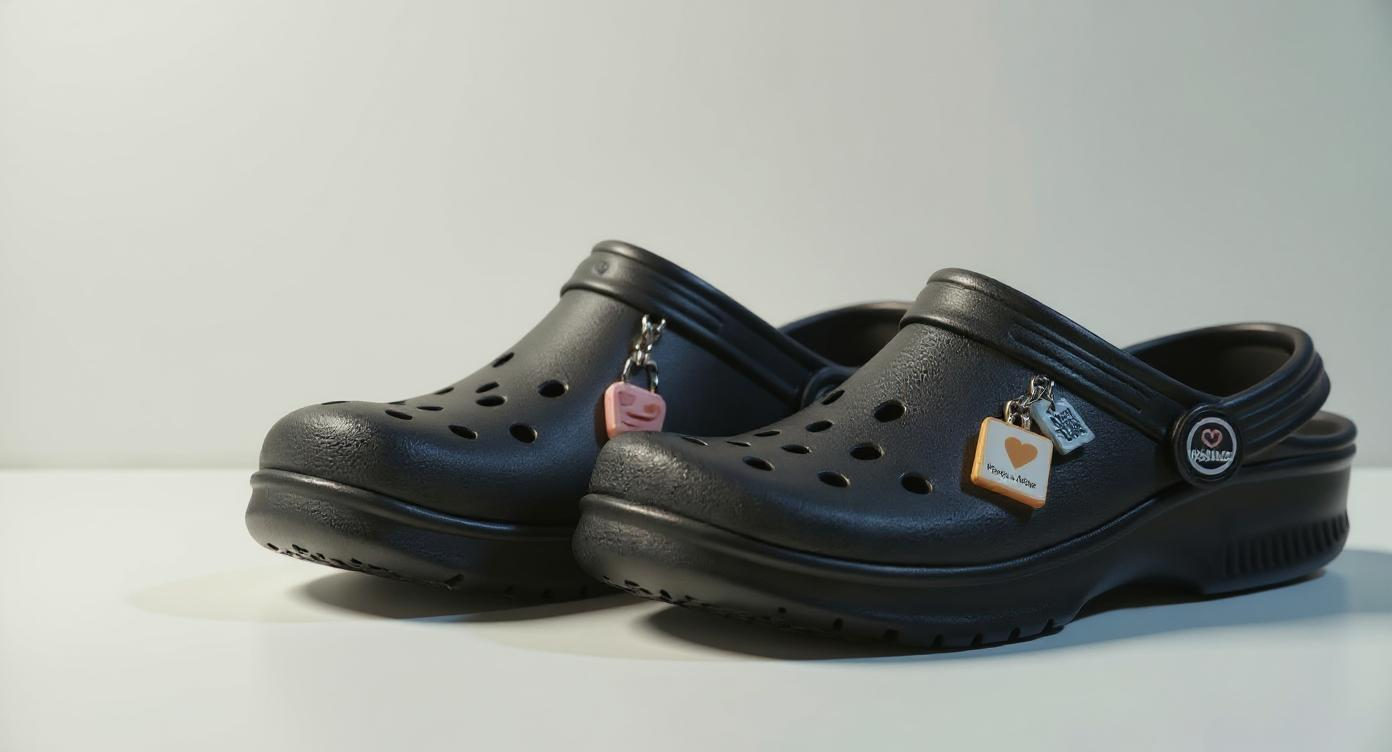
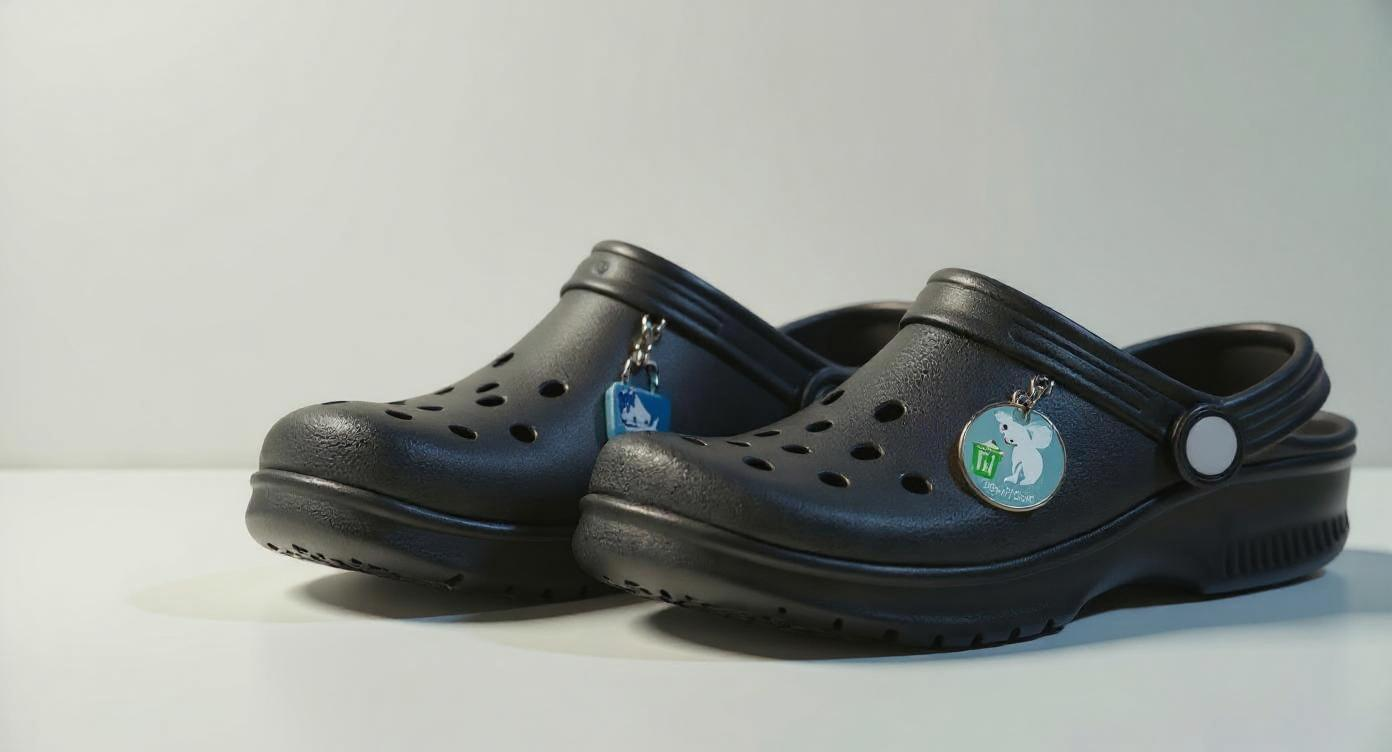
Update hero image charms
Update the hero image to use the new charm designs: koala, ibis, Australian flag, and Sydney Opera House.

diff --git a/src/pages/Index.tsx b/src/pages/Index.tsx
@@ -44,7 +44,7 @@ const Index = () => {
         <AspectRatio ratio={16/9} className="relative rounded-xl overflow-hidden border shadow-2xl">
           <img
             src={heroImg}
-            alt="Custom shoe charms with placeholder logo area showing Your Logo Here on foam clogs"
+            alt="Hero: matte black foam clogs with Australian-themed PVC charms (flag, Sydney Opera House, koala badge, ibis with bin) clipped into holes, plus 'Your Logo Here' charm"
             loading="eager"
             className="absolute inset-0 h-full w-full object-cover"
           />
